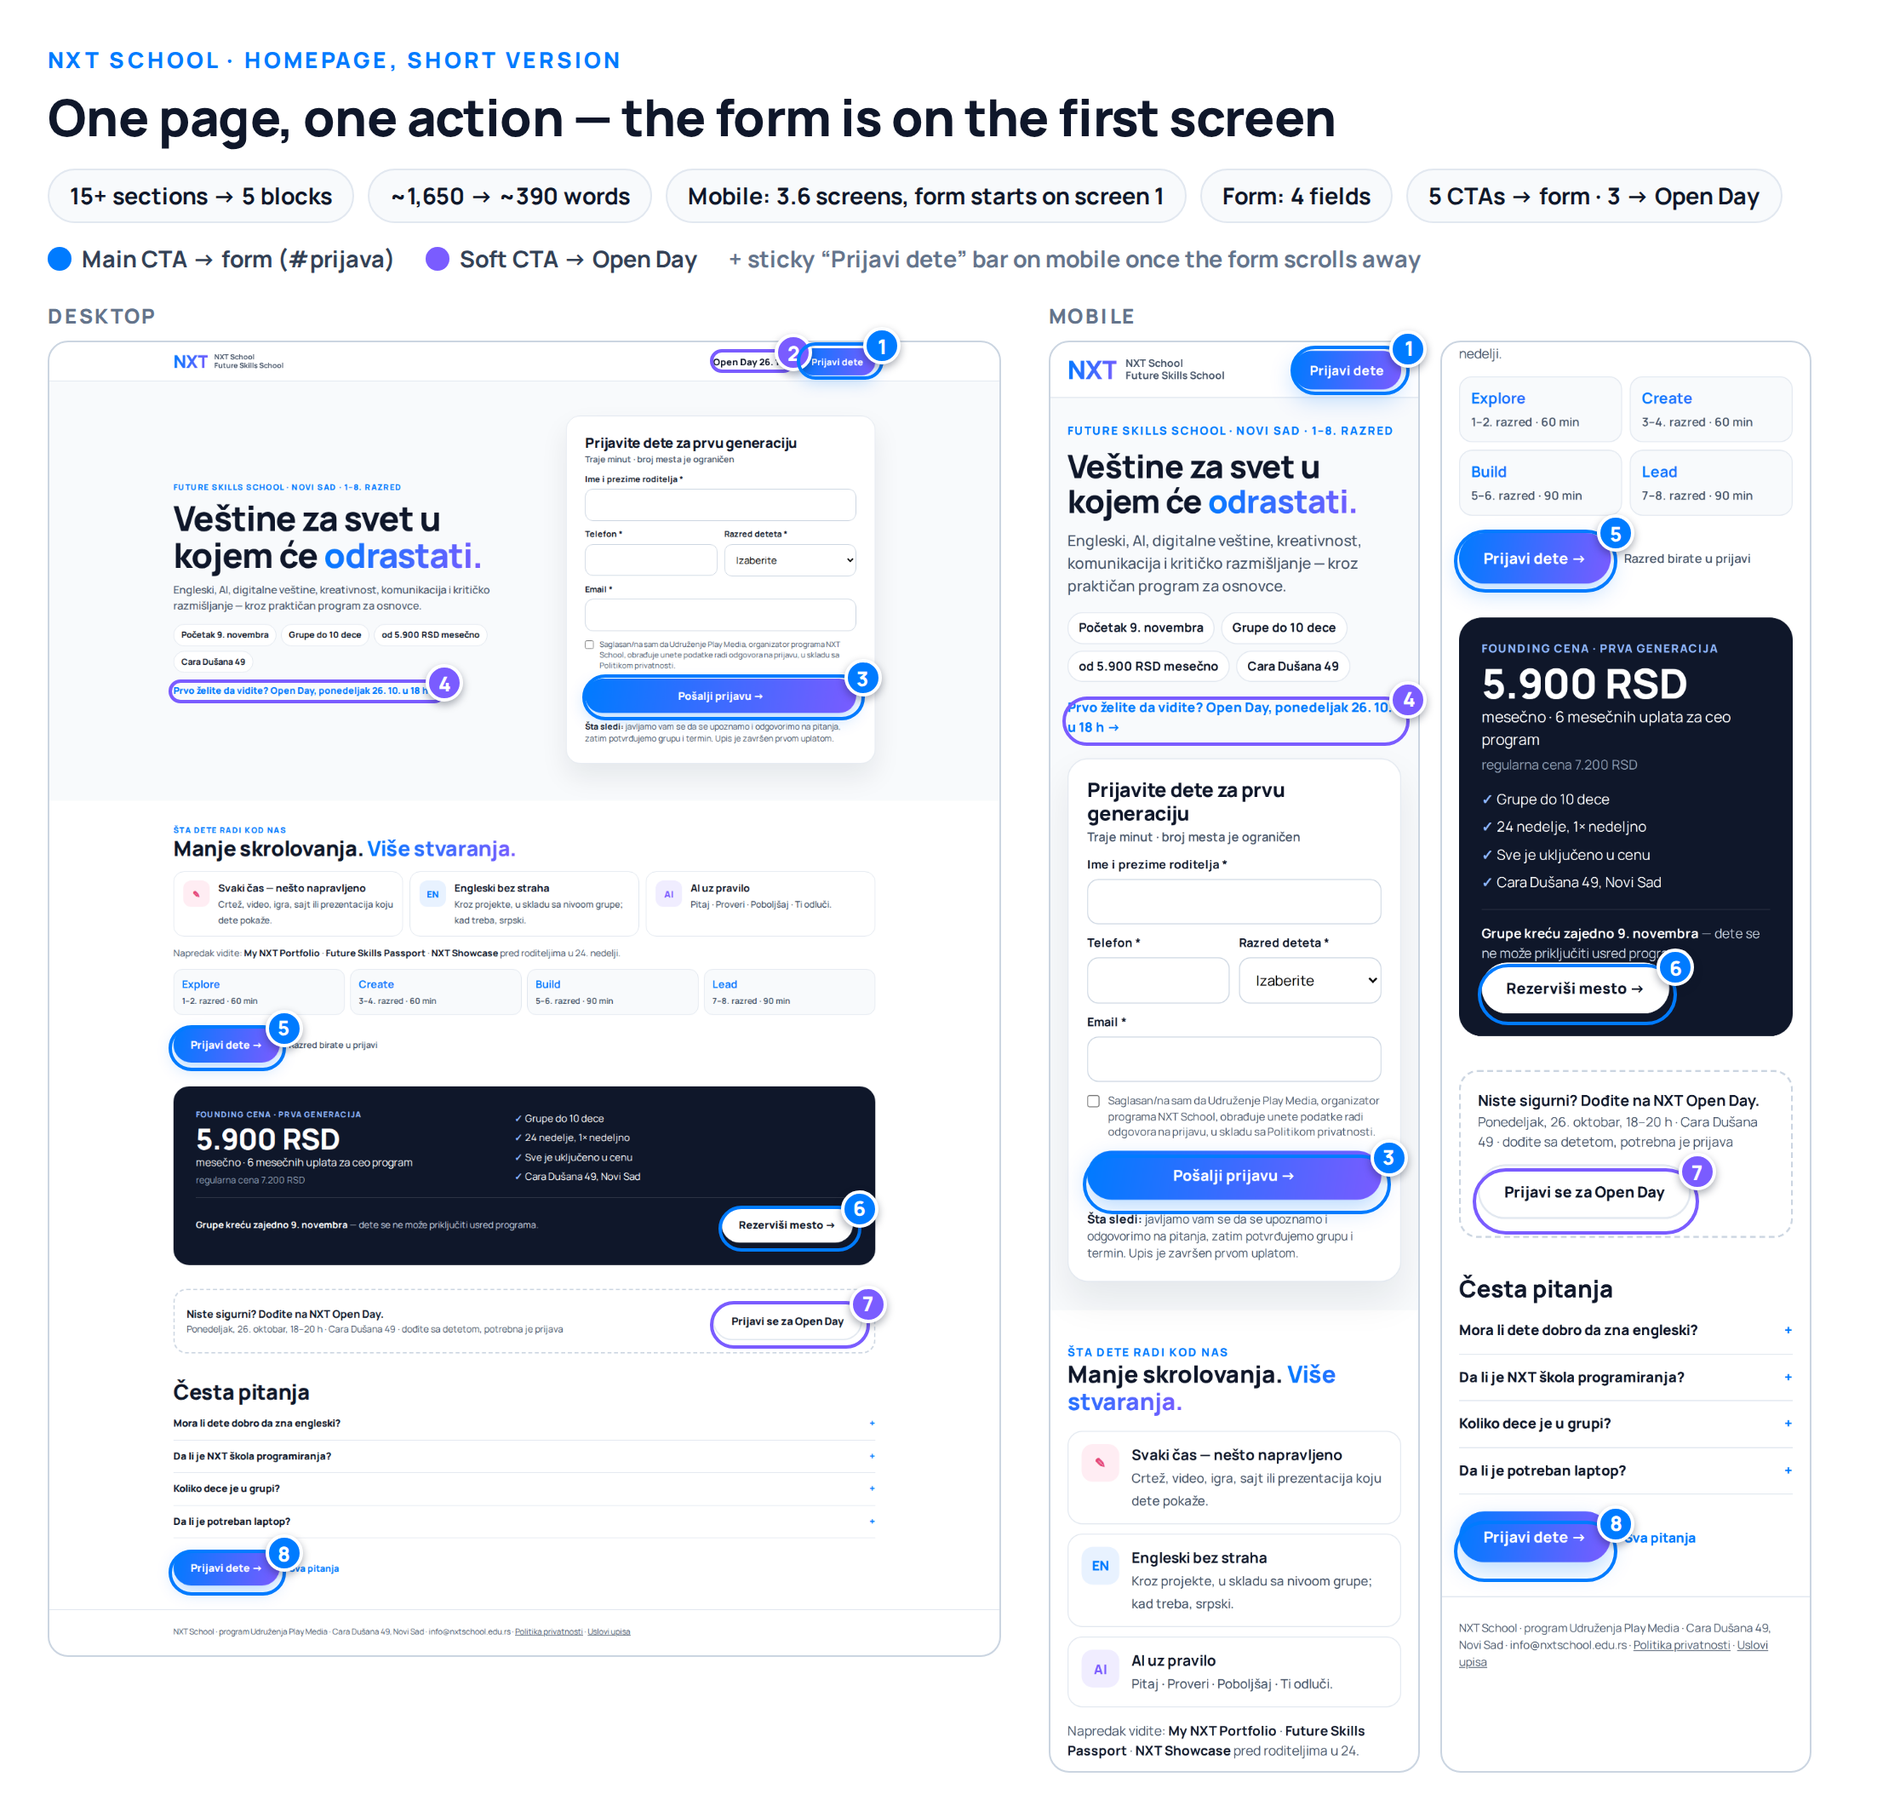
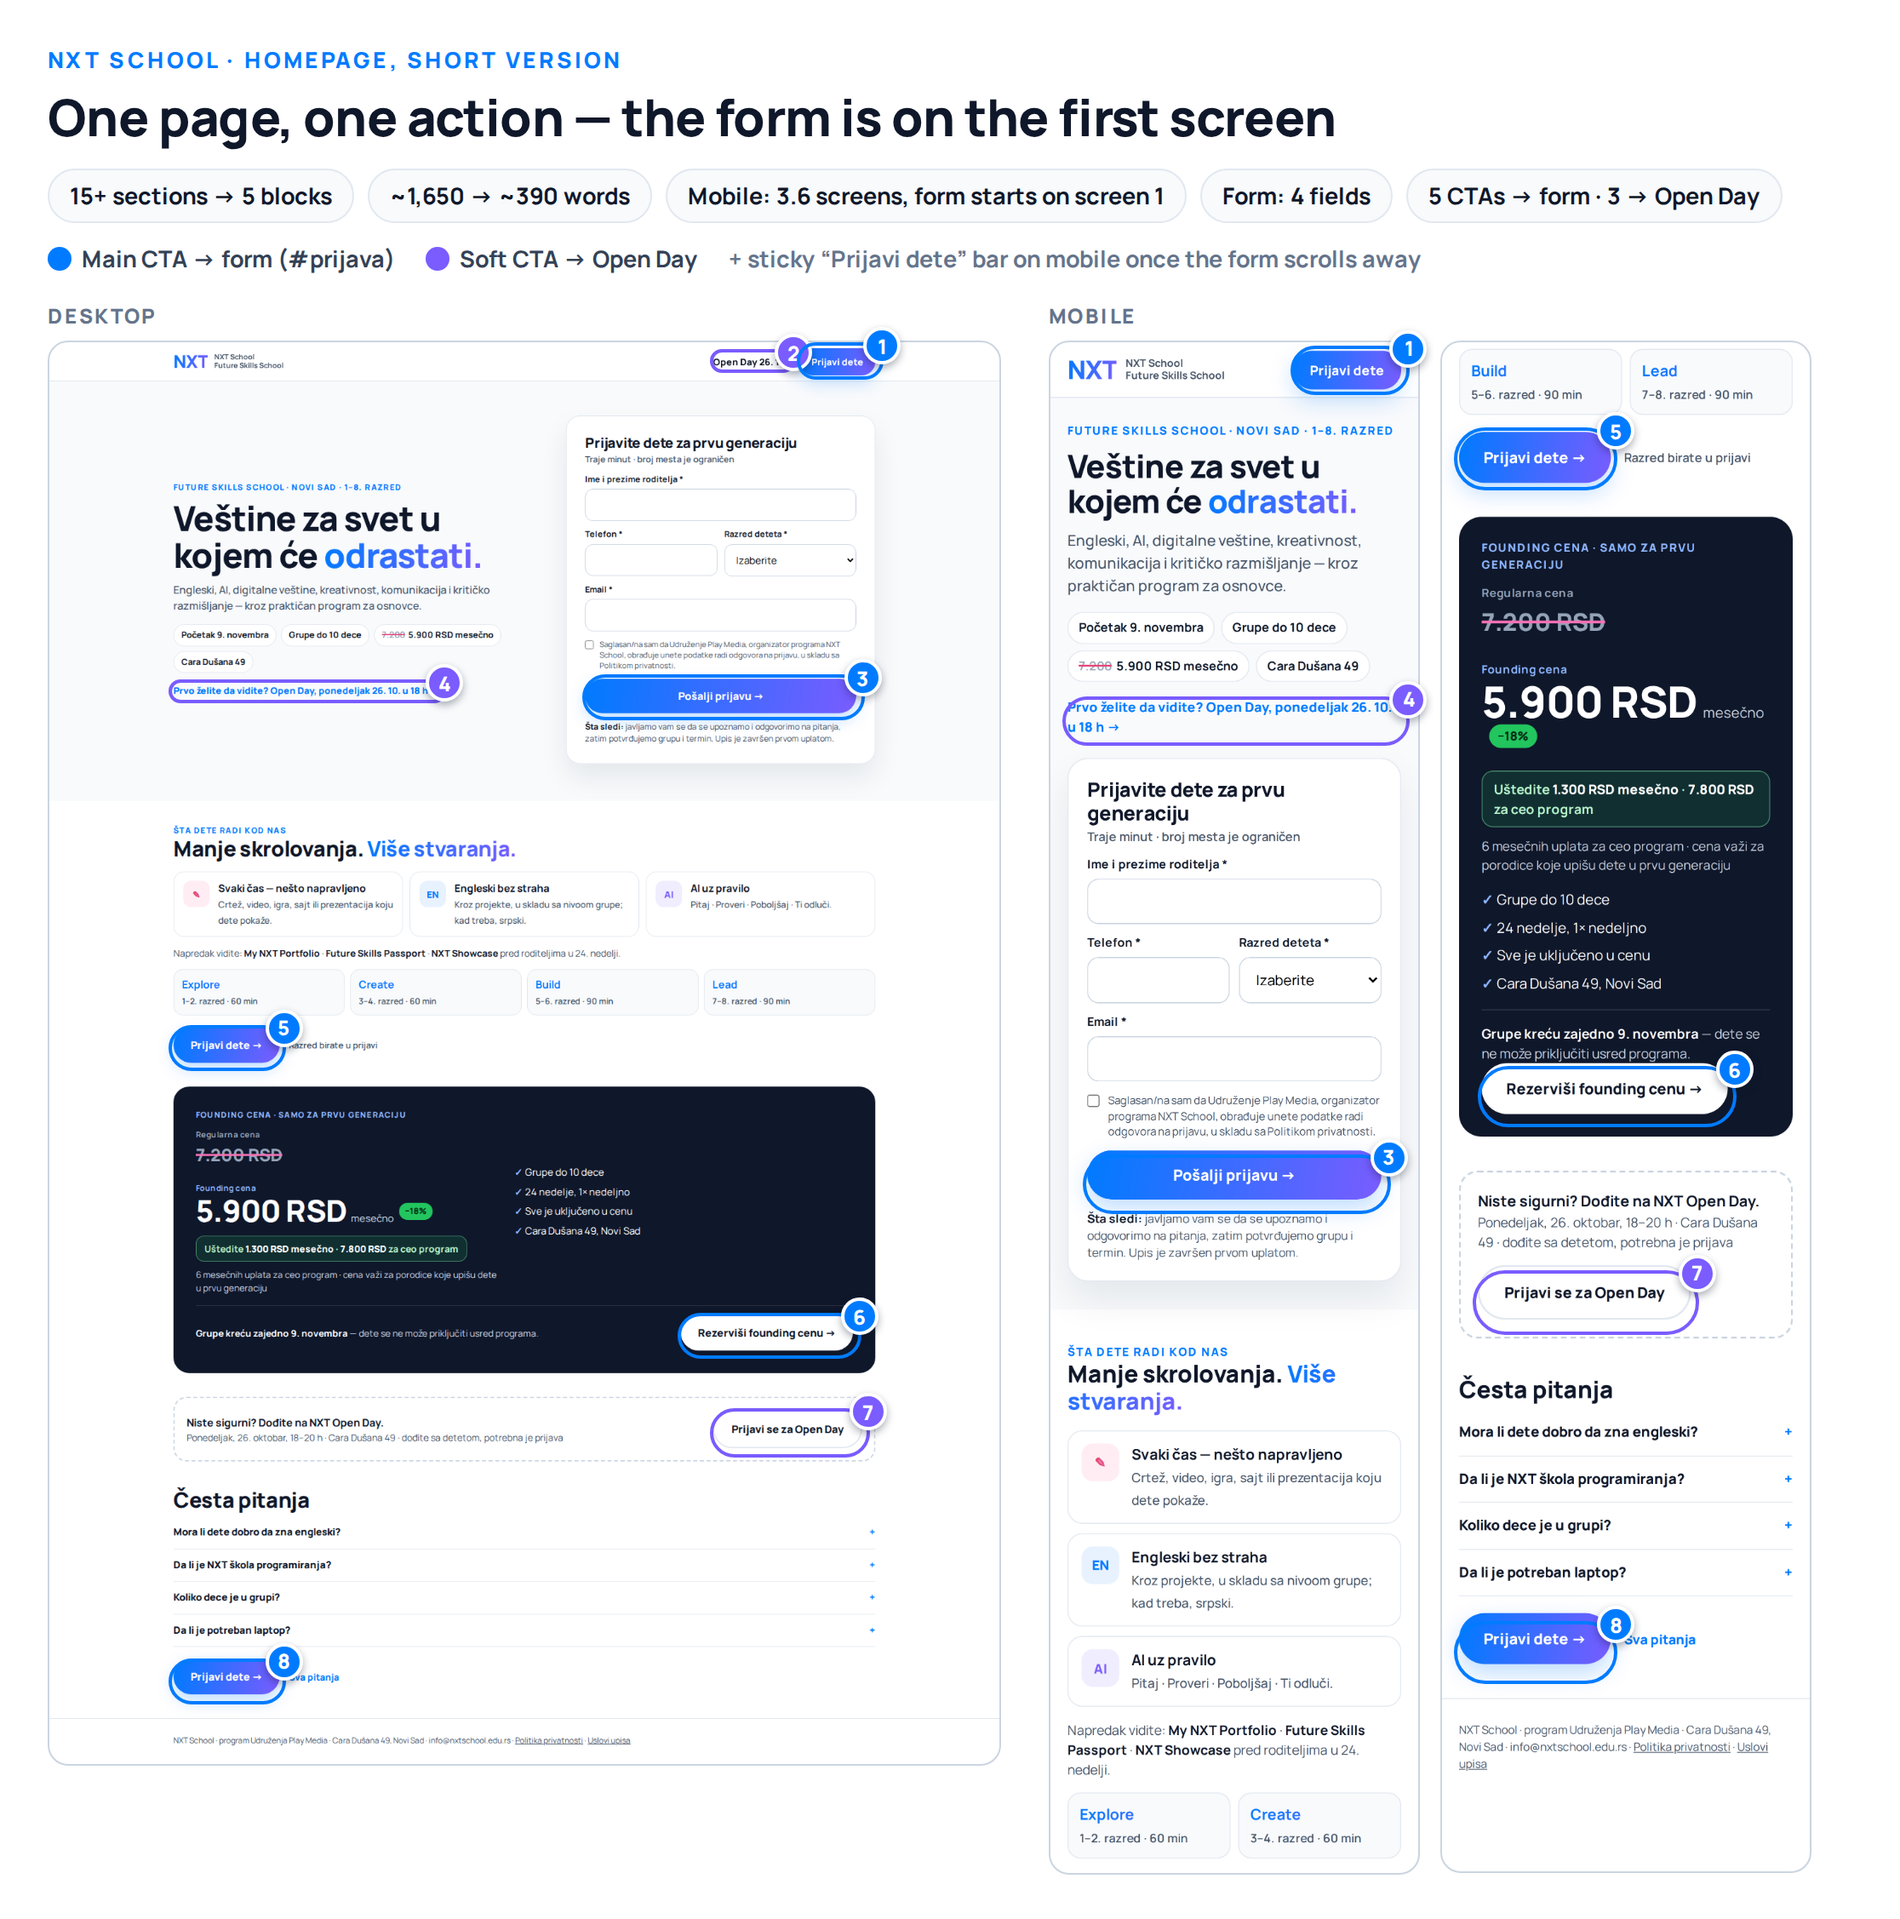
Short homepage: make founding vs regular price obvious
Offer block shows regular 7.200 struck through next to founding 5.900
(-18%), savings line (1.300 RSD/month, 7.800 RSD for the program) and a
'Rezerviši founding cenu' CTA; hero chip and sticky bar show 7.200 -> 5.900.

Claude-Session: https://claude.ai/code/session_01WYxT2oKqHUxfsBrXZ2Myb2

diff --git a/nxt-school-launch/landing-page/NXT_homepage_short.html b/nxt-school-launch/landing-page/NXT_homepage_short.html
@@ -73,7 +73,18 @@
   .offer { background:var(--navy); color:#fff; border-radius:24px; padding:24px; display:grid; gap:16px; }
   .offer .tag { font-size:12px; font-weight:800; letter-spacing:.1em; color:#8FB8FF; }
   .offer .big { font-size:44px; font-weight:800; letter-spacing:-.02em; line-height:1.05; margin-top:4px; }
-  .offer .old { color:#94A3B8; font-size:14px; margin-top:4px; }
+  .compare { display:flex; align-items:flex-end; gap:22px; margin-top:12px; flex-wrap:wrap; }
+  .compare small { display:block; font-size:12px; font-weight:700; letter-spacing:.04em; margin-bottom:2px; }
+  .was small { color:#94A3B8; }
+  .was s { font-size:26px; font-weight:800; color:#94A3B8; text-decoration-thickness:3px; text-decoration-color:#F472B6; }
+  .now small { color:#8FB8FF; }
+  .now b { font-size:46px; font-weight:800; letter-spacing:-.02em; line-height:1; }
+  .now span { font-size:15px; color:#CBD5E1; margin-left:6px; }
+  .pct { font-style:normal; display:inline-block; vertical-align:12px; margin-left:8px; background:#22C55E; color:#052e16; font-size:13px; font-weight:800; border-radius:999px; padding:3px 9px; }
+  .save { display:inline-block; margin-top:14px; background:rgba(34,197,94,.14); border:1px solid rgba(134,239,172,.45); color:#BBF7D0; border-radius:12px; padding:8px 12px; font-size:14px; font-weight:700; }
+  .save b { color:#fff; }
+  .pay { font-size:13.5px; color:#CBD5E1; margin-top:10px; }
+  .facts s, .sticky s { color:#94A3B8; font-weight:600; margin-right:5px; text-decoration-color:#E5487A; text-decoration-thickness:2px; }
   .offer ul { list-style:none; display:grid; gap:7px; font-size:15px; }
   .offer li::before { content:'✓  '; color:#8FB8FF; font-weight:800; }
   .urgent { font-size:14px; color:#CBD5E1; border-top:1px solid rgba(255,255,255,.15); padding-top:14px; }
@@ -125,7 +136,7 @@
       <div class="kicker" id="hero-kicker">Future Skills School · Novi Sad · 1–8. razred</div>
       <h1 id="hero-title">Veštine za svet u kojem će <span class="g">odrastati.</span></h1>
       <p class="sub" id="hero-sub">Engleski, AI, digitalne veštine, kreativnost, komunikacija i kritičko razmišljanje — kroz praktičan program za osnovce.</p>
-      <div class="facts"><span>Početak 9. novembra</span><span>Grupe do 10 dece</span><span>od 5.900 RSD mesečno</span><span>Cara Dušana 49</span></div>
+      <div class="facts"><span>Početak 9. novembra</span><span>Grupe do 10 dece</span><span><s>7.200</s>5.900 RSD mesečno</span><span>Cara Dušana 49</span></div>
       <a class="link od-link" href="#open-day">Prvo želite da vidite? Open Day, ponedeljak 26. 10. u 18 h →</a>
     </div>
 
@@ -173,9 +184,17 @@
 <section style="padding-top:0">
   <div class="wrap">
     <div class="offer">
-      <div><div class="tag">FOUNDING CENA · PRVA GENERACIJA</div><div class="big">5.900 RSD</div><div>mesečno · 6 mesečnih uplata za ceo program</div><div class="old">regularna cena 7.200 RSD</div></div>
+      <div>
+        <div class="tag">FOUNDING CENA · SAMO ZA PRVU GENERACIJU</div>
+        <div class="compare">
+          <div class="was"><small>Regularna cena</small><s>7.200 RSD</s></div>
+          <div class="now"><small>Founding cena</small><b>5.900 RSD</b><span>mesečno</span><em class="pct">−18%</em></div>
+        </div>
+        <div class="save">Uštedite <b>1.300 RSD mesečno</b> · <b>7.800 RSD</b> za ceo program</div>
+        <div class="pay">6 mesečnih uplata za ceo program · cena važi za porodice koje upišu dete u prvu generaciju</div>
+      </div>
       <ul><li>Grupe do 10 dece</li><li>24 nedelje, 1× nedeljno</li><li>Sve je uključeno u cenu</li><li>Cara Dušana 49, Novi Sad</li></ul>
-      <div class="urgent"><span><b>Grupe kreću zajedno 9. novembra</b> — dete se ne može priključiti usred programa.</span><a class="btn btn-white" href="#prijava">Rezerviši mesto →</a></div>
+      <div class="urgent"><span><b>Grupe kreću zajedno 9. novembra</b> — dete se ne može priključiti usred programa.</span><a class="btn btn-white" href="#prijava">Rezerviši founding cenu →</a></div>
     </div>
   </div>
 </section>
@@ -206,7 +225,7 @@
   <div class="wrap">NXT School · program Udruženja Play Media · Cara Dušana 49, Novi Sad · info@nxtschool.edu.rs · <a href="/politika-privatnosti/">Politika privatnosti</a> · <a href="/uslovi-upisa/">Uslovi upisa</a></div>
 </footer>
 
-<div class="sticky" id="sticky"><small>Početak 9. novembra<br>od 5.900 RSD mesečno</small><a class="btn btn-main" href="#prijava">Prijavi dete</a></div>
+<div class="sticky" id="sticky"><small>Početak 9. novembra<br><s>7.200</s>5.900 RSD mesečno</small><a class="btn btn-main" href="#prijava">Prijavi dete</a></div>
 
 <script>
   // Hero changes with the ad: ?angle=scroll | english | ai | offer (no parameter = default)
@@ -214,7 +233,7 @@
     scroll:  { k: 'Za decu 1–8. razreda · Novi Sad', h: 'Less scrolling. <span class="g">More creating.</span>', s: 'Svaki čas se završava nečim što je dete samo napravilo — računar je alat, uz papir, karton i timski rad.' },
     english: { k: 'English in Practice · 1–8. razred', h: 'Engleski <span class="g">bez straha.</span>', s: 'Kroz projekte deca pitaju, istražuju i predstavljaju na engleskom — u skladu sa nivoom grupe. Kad treba, pređemo na srpski.' },
     ai:      { k: 'AI Literacy · 1–8. razred', h: 'Ovde deca uče da <span class="g">razmišljaju uz AI.</span>', s: 'Pitaj. Proveri. Poboljšaj. Ti odluči. AI je asistent, ne autoritet.' },
-    offer:   { k: 'Founding generacija · Novi Sad', h: 'Upisujemo prvu generaciju. <span class="g">Početak 9. novembra.</span>', s: 'Founding cena 5.900 RSD mesečno — 6 uplata za ceo program, sve uključeno. Grupe do 10 dece.' }
+    offer:   { k: 'Founding generacija · Novi Sad', h: 'Upisujemo prvu generaciju. <span class="g">Početak 9. novembra.</span>', s: 'Founding cena 5.900 RSD mesečno umesto 7.200 — 6 uplata za ceo program, sve uključeno. Grupe do 10 dece.' }
   };
   var a = ANGLES[new URLSearchParams(location.search).get('angle')];
   if (a) {
